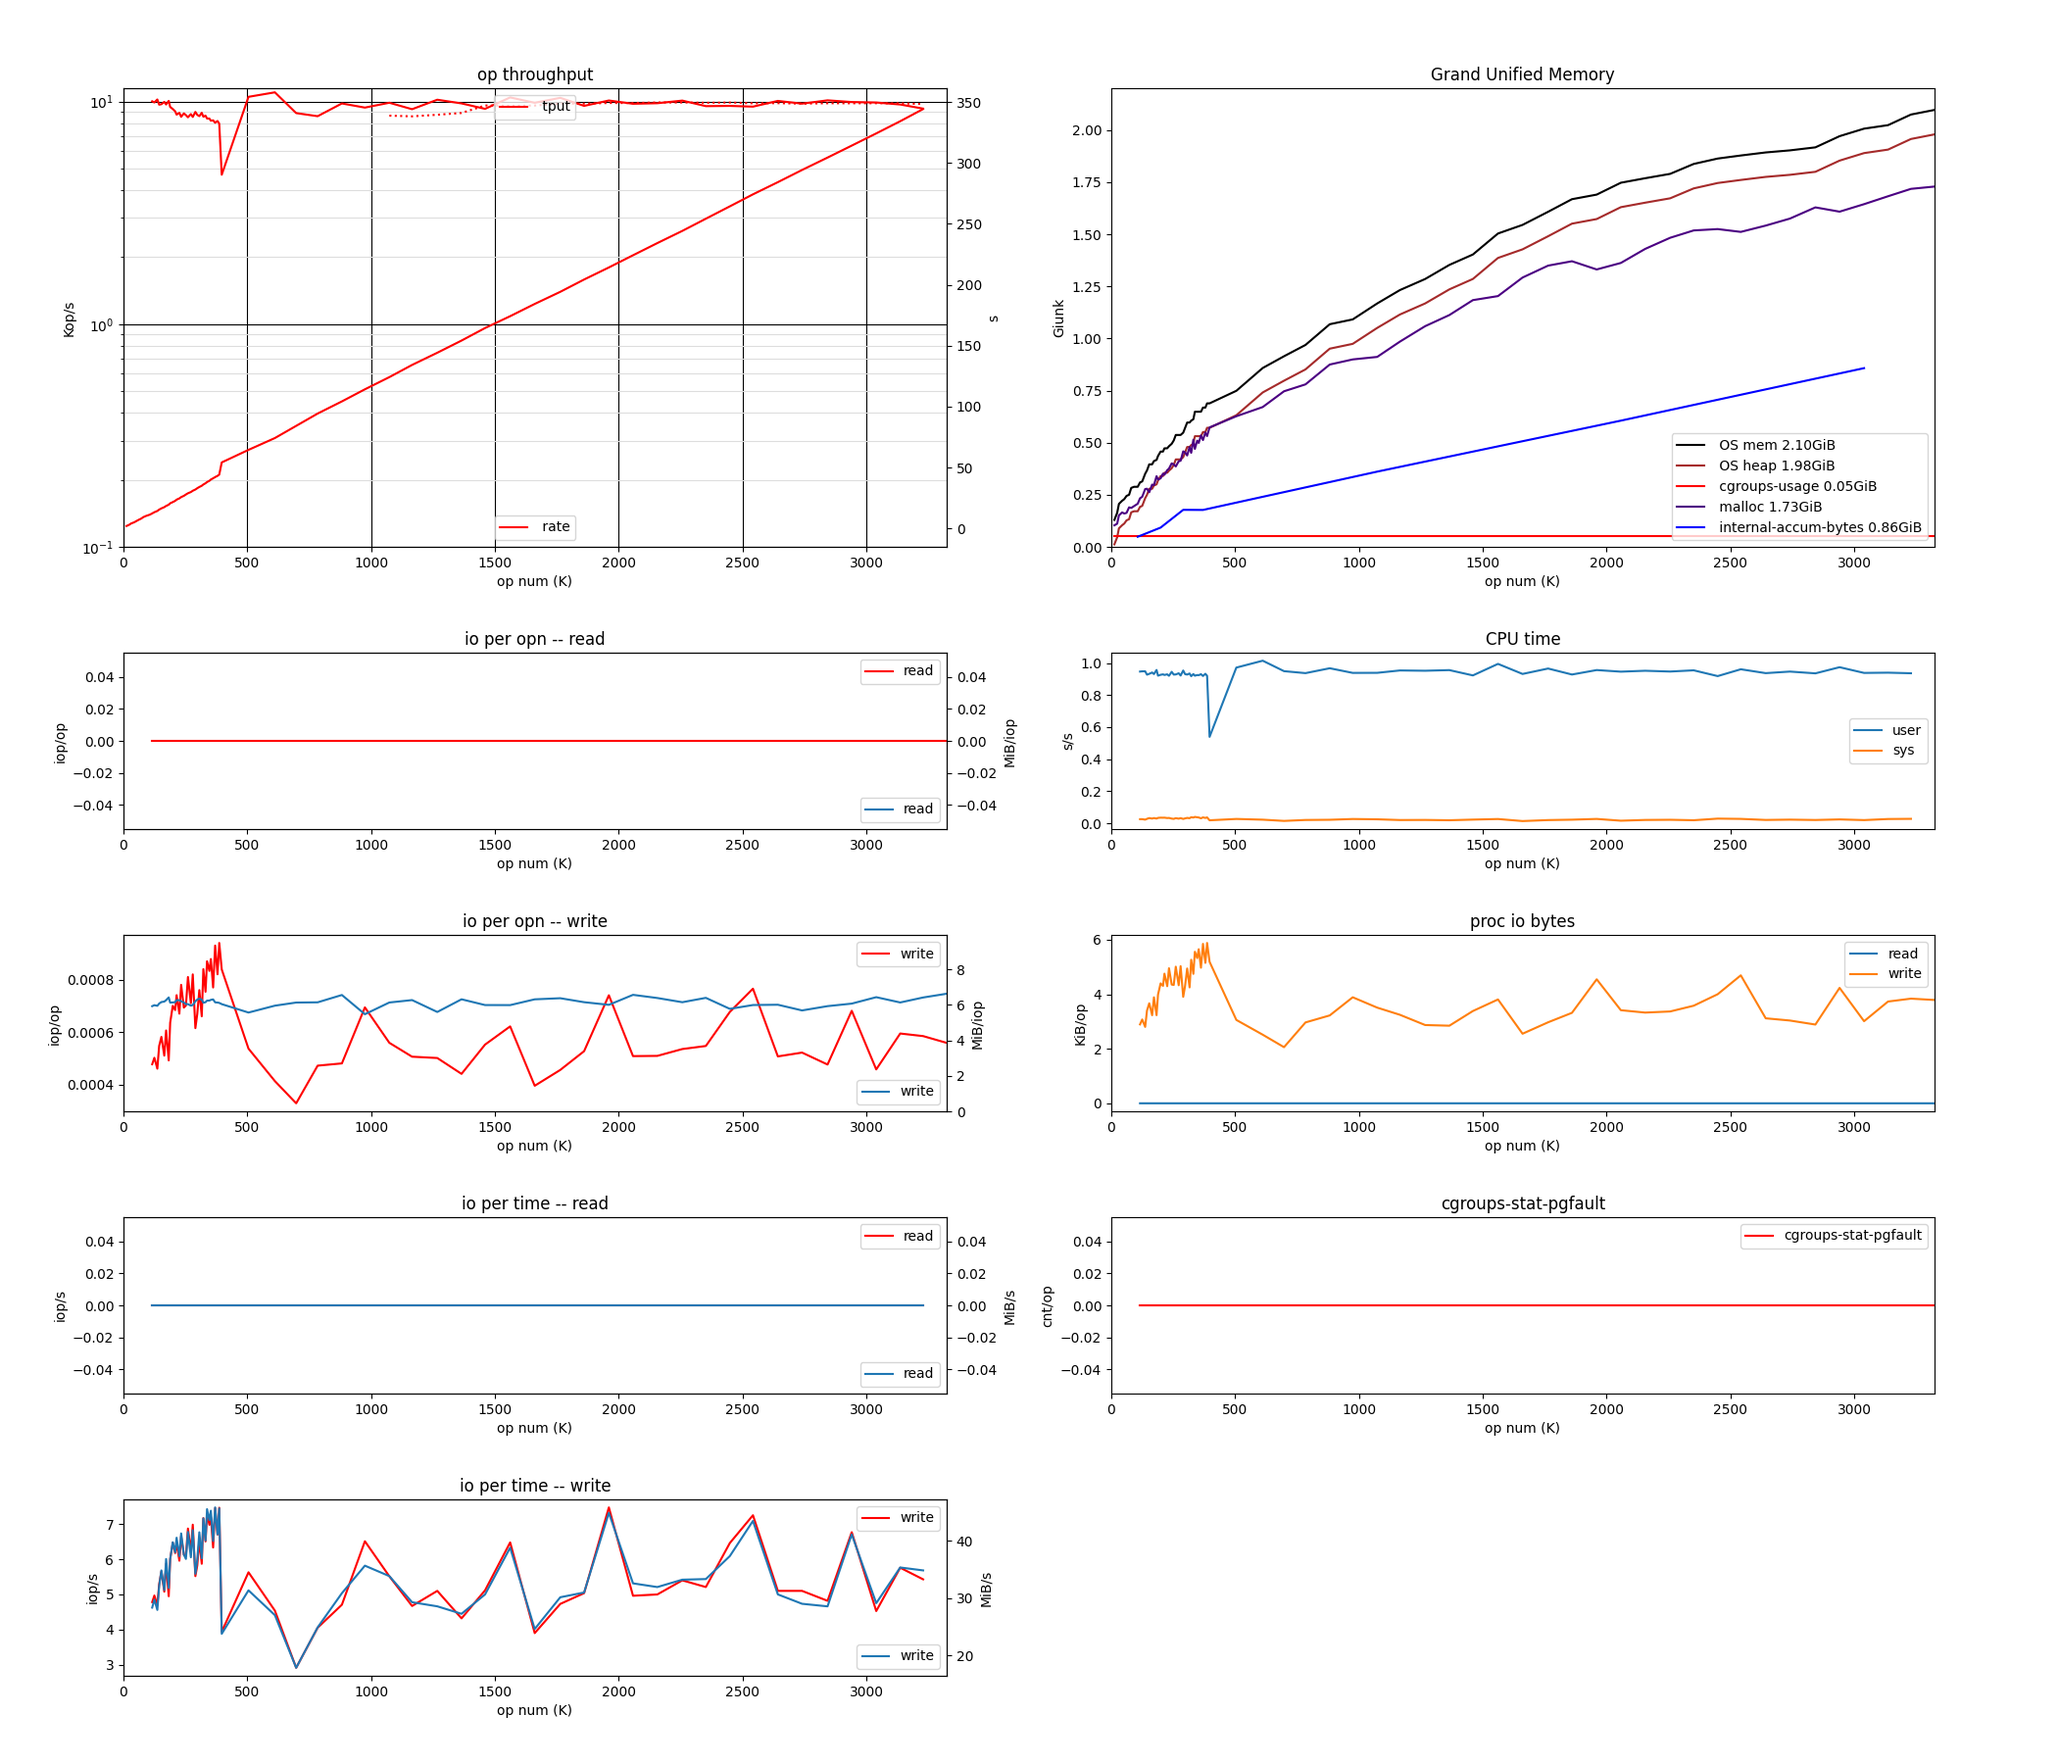
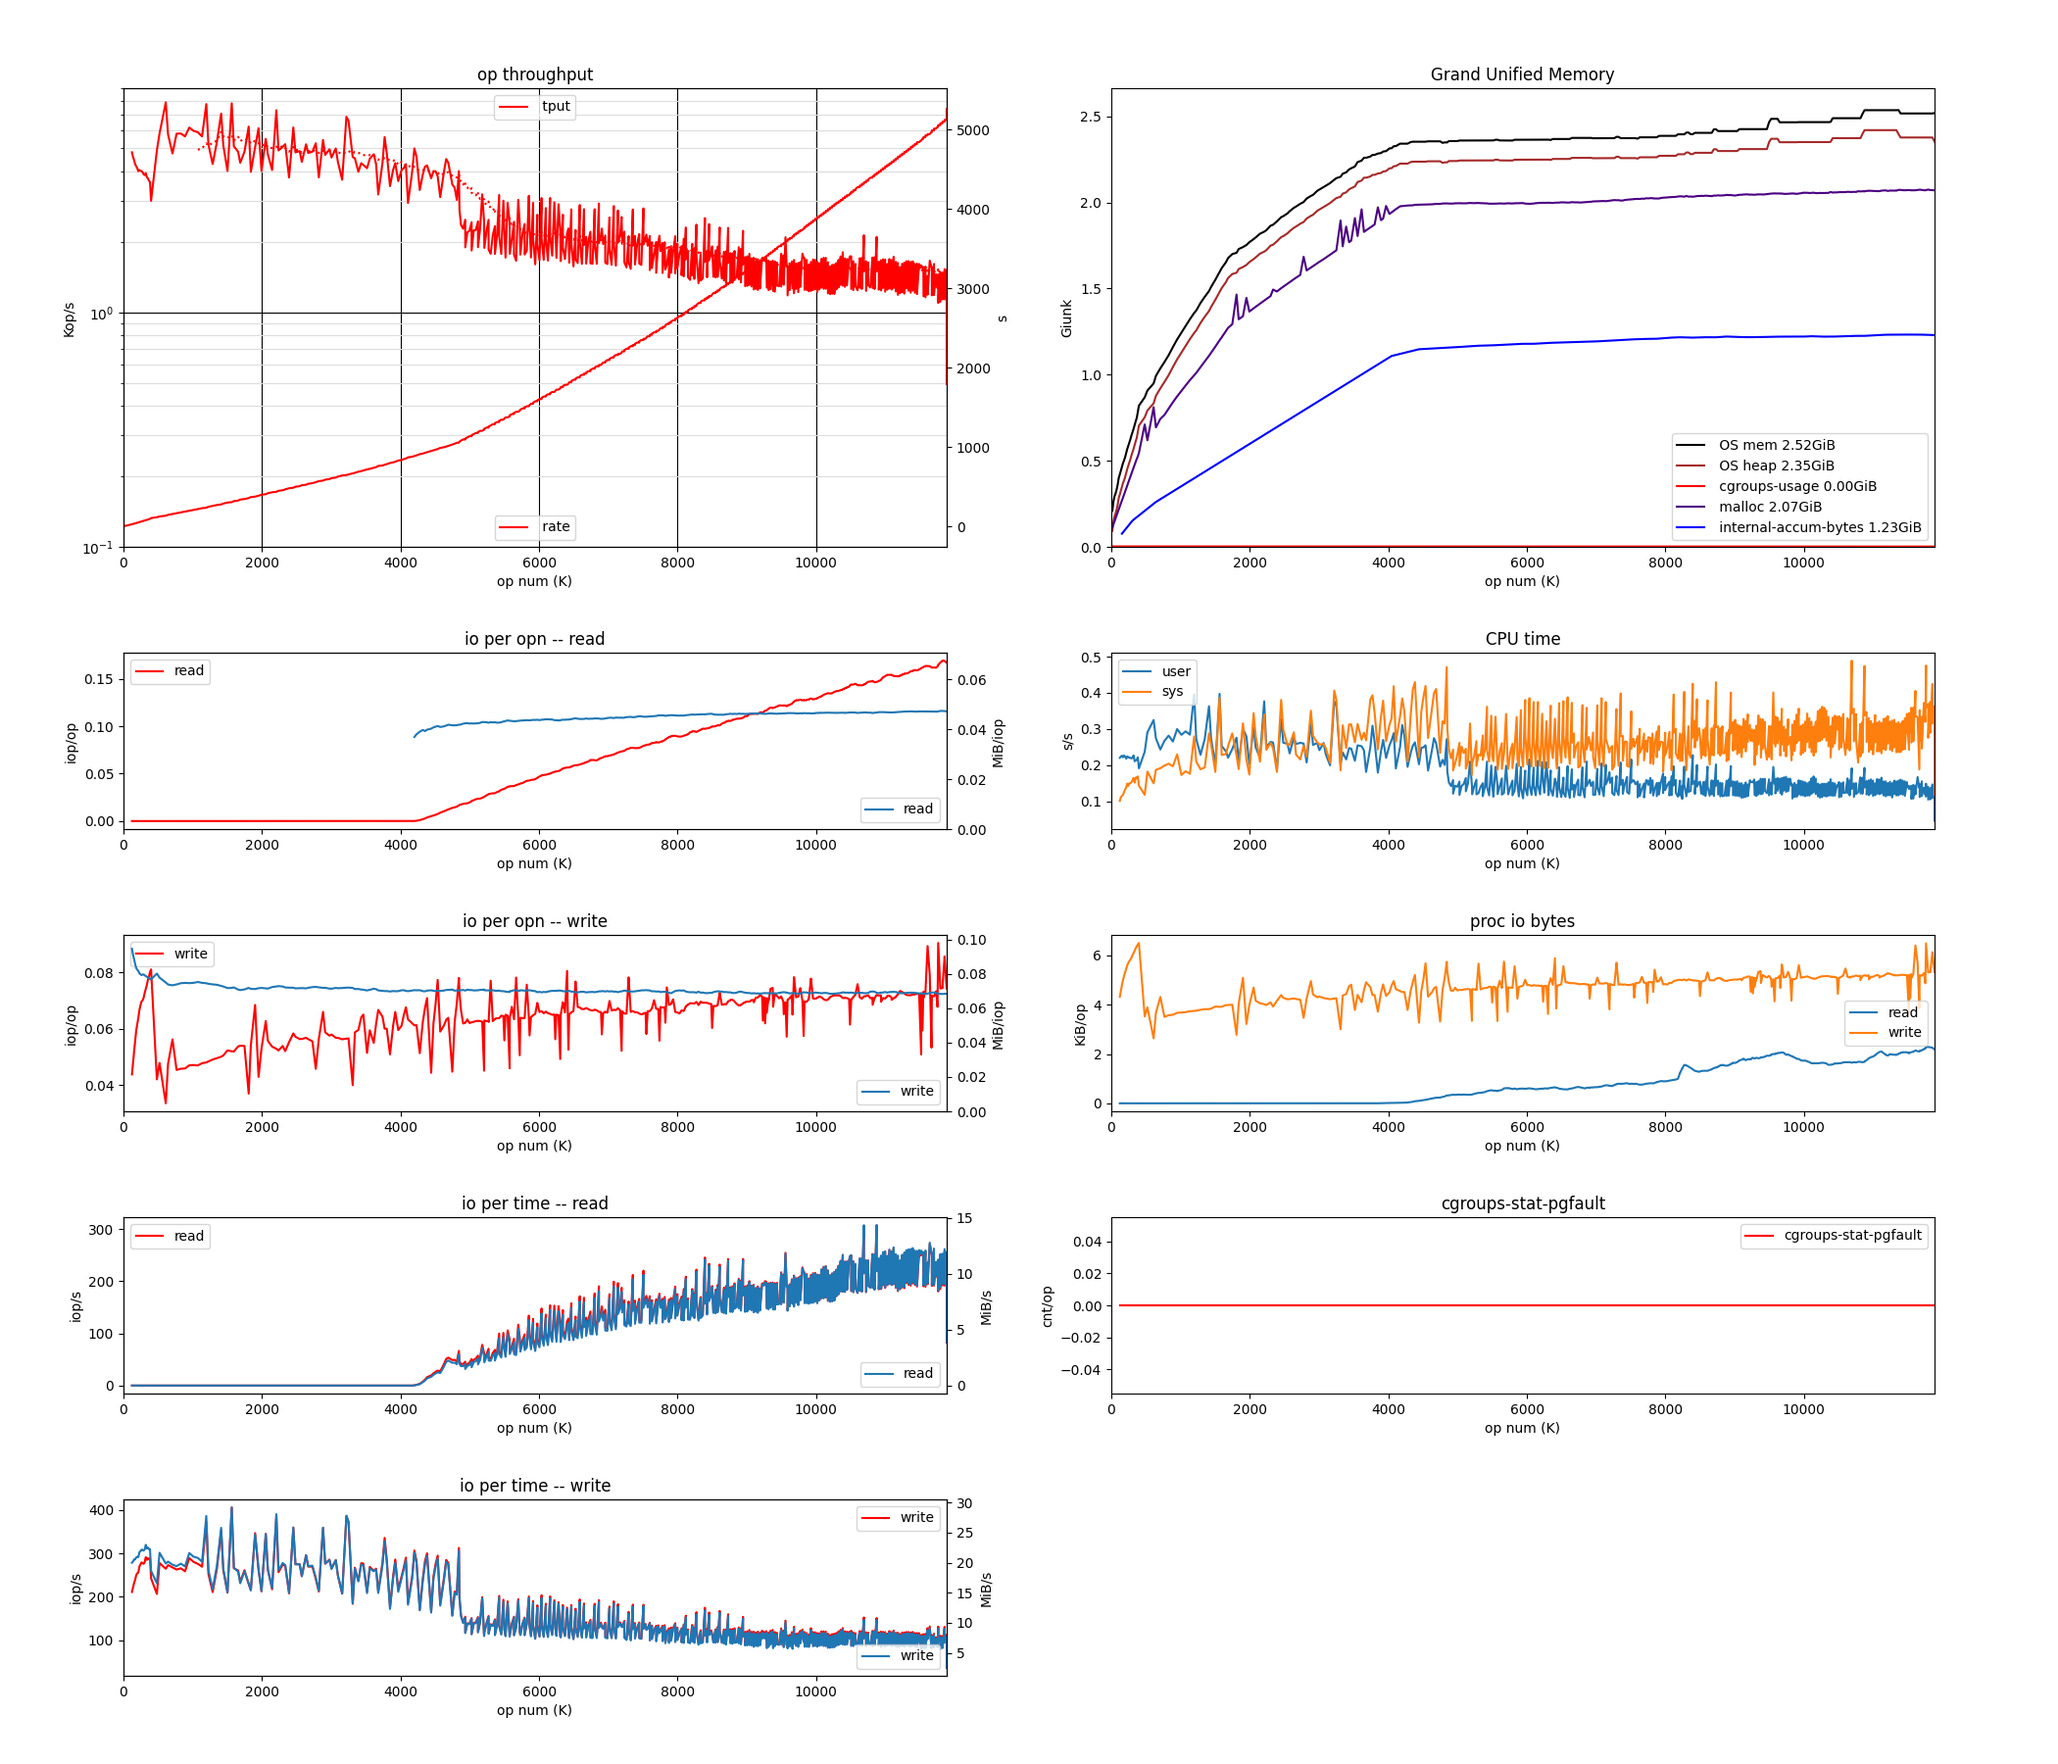
tracking down memory issues in master merge; on to perf

diff --git a/tools/plot/PlotHelper.py b/tools/plot/PlotHelper.py
@@ -31,7 +31,7 @@ class PlotHelper:
         self.columns = 2 if numPlots > 4 else 1
         self.rows = int((numPlots+0.5)/self.columns)
         # You may need: sudo pip3 install --upgrade matplotlib
-        self.fig = plt.figure(constrained_layout=True,
+        self.fig = plt.figure(#constrained_layout=True,
                     figsize = (scale*7*self.columns, scale*self.rows*2))
         self.gridspec = GridSpec(self.rows, self.columns)
         #self.fig, self.axes = plt.subplots(rows, columns, figsize=())
@@ -49,7 +49,7 @@ class PlotHelper:
         return self.fig.add_subplot(self.gridspec[row:endRow, col])
 
     def save(self, figname):
-        plt.tight_layout()
+        #plt.tight_layout()
         plt.savefig(figname)
 
 class LambdaTrace:
@@ -180,6 +180,8 @@ def plotGrandUnifiedMemory(ax, experiments):
                 exp.nickname + " OS heap")
         plotWithLabel(singleTrace(ax, exp.cgroups_memory_usage_bytes, scale=Gi),
                 exp.nickname + " cgroups-usage")
+
+        # malloc & jemalloc
         plotWithLabel(singleTrace(ax, exp.jem_mapped, scale=Gi),
                 exp.nickname + " jem mapped")
         plotWithLabel(singleTrace(ax, exp.jem_active, scale=Gi),
@@ -189,6 +191,10 @@ def plotGrandUnifiedMemory(ax, experiments):
 
         mallocLam = singleTrace(ax, exp.microscopes["total"].getTrace("open_byte"), scale=Gi) if "total" in exp.microscopes else lambda opn: None
         plotWithLabel(mallocLam, exp.nickname + " malloc")
+
+        # "underlying" view: measured in C++ below Dafny but above malloc
+        plotWithLabel(singleTrace(ax, exp.kvl_underlying, scale=Gi),
+                exp.nickname + " underlying")
 
         # internal views, stacked
         traceNames = ["bucket-message-bytes", "bucket-key-bytes", "pivot-key-bytes"]

diff --git a/tools/plot/parser.py b/tools/plot/parser.py
@@ -130,8 +130,8 @@ class Experiment:
         self.cgroups_stat = {}
 
         self.scopes = {}
-        self.kvl_underlying = {}
-        self.kvl_underlying_count = {}
+        self.kvl_underlying = Trace("underlying_bytes", "B")
+        self.kvl_underlying_count = Trace("underlying_cnt", "cnt")
         self.accum = {}
 
         self.parse()
@@ -177,7 +177,7 @@ class Experiment:
 
             if line.startswith("os-map-total"):
                 self.os_map_total[cur_op] = int(fields[1])
-                self.os_map_heap[cur_op] = int(fields[3])
+                self.os_map_heap[cur_op] = max(0, int(fields[3]))
 
 #            if line.startswith("iostats "):
 #                self.reads_started[cur_op] = int(fields[1])
@@ -219,9 +219,9 @@ class Experiment:
                     self.microscopes[label] = ARows(label)
                 self.microscopes[label][cur_op] = arow
             
-#            if line.startswith("allocationreport stop underyling_count"):
-#                self.kvl_underlying_count[t] = int(fields[3])
-#                self.kvl_underlying[t] = int(fields[5])
+            if line.startswith("allocationreport stop underyling_count"):
+                self.kvl_underlying_count[cur_op] = int(fields[3])
+                self.kvl_underlying[cur_op] = int(fields[5])
 
 
             mo = re.compile("Allocated: (\d+), active: (\d+), mapped: (\d+)").search(line)

diff --git a/framework/Framework.cpp b/framework/Framework.cpp
@@ -859,6 +859,7 @@ void set_amass_mode(bool b) {
 
 namespace AllocationReport_Compile {
 
+#if DEBUG_UNDERLYING
 class Observation {
 private:
   std::set<uint64_t> observed_ptrs;
@@ -971,24 +972,24 @@ void Observation::sampleNode(uint64 noderef, std::shared_ptr<NodeImpl_Compile::N
   count = observed_ptrs.size();
   printf("allocationreport noderef %lu type %s observed_sptr_count %d\n", noderef, type, count);
 }
+#endif // DEBUG_UNDERLYING
 
-#define TRACK_DOWN_UNDERLYING_ALLOCATIONS 1
 void start() {
-#if TRACK_DOWN_UNDERLYING_ALLOCATIONS
+#if DEBUG_UNDERLYING
   g_observation.start();
-#endif // TRACK_DOWN_UNDERLYING_ALLOCATIONS
+#endif // DEBUG_UNDERLYING
 }
 
 void sampleNode(uint64 noderef, std::shared_ptr<NodeImpl_Compile::Node> node) {
-#if TRACK_DOWN_UNDERLYING_ALLOCATIONS
+#if DEBUG_UNDERLYING
   g_observation.sampleNode(noderef, node);
-#endif // TRACK_DOWN_UNDERLYING_ALLOCATIONS
+#endif // DEBUG_UNDERLYING
 }
 
 void stop() {
-#if TRACK_DOWN_UNDERLYING_ALLOCATIONS
+#if DEBUG_UNDERLYING
   g_observation.stop();
-#endif // TRACK_DOWN_UNDERLYING_ALLOCATIONS
+#endif // DEBUG_UNDERLYING
 }
 
 } // AllocationReport_Compile

diff --git a/ycsb/YcsbMain.cpp b/ycsb/YcsbMain.cpp
@@ -164,7 +164,6 @@ void cgroups_report() {
 static int i=0;
 template< class DB >
 void periodicReport(DB db, const char* phase, int elapsed_ms, int ops_completed) {
-  return; // TODO reducing gdb clutter
     printf("elapsed_ms %d ops %d %s\n", elapsed_ms, ops_completed, phase);
 
     malloc_accounting_display("periodic");
@@ -439,11 +438,9 @@ public:
 
     inline void memDebugInfrequent() {
         app.DebugAccumulator();
-      /*
         printf("debug-accumulator start\n");
         app.CountAmassAllocations();
         printf("debug-accumulator finish\n");
-      */
     }
 };
 

diff --git a/tools/run-veri-config-experiment.py b/tools/run-veri-config-experiment.py
@@ -21,7 +21,7 @@ def autoconfig(config, memlimit):
 
   itable_size = 8*1024*1024
 
-  MALLOC_OVERHEAD=0.78
+  MALLOC_OVERHEAD=1.00
   if config == "8mb":
     node_size = 8*1024*1024
     bucket_weight = 8356168
